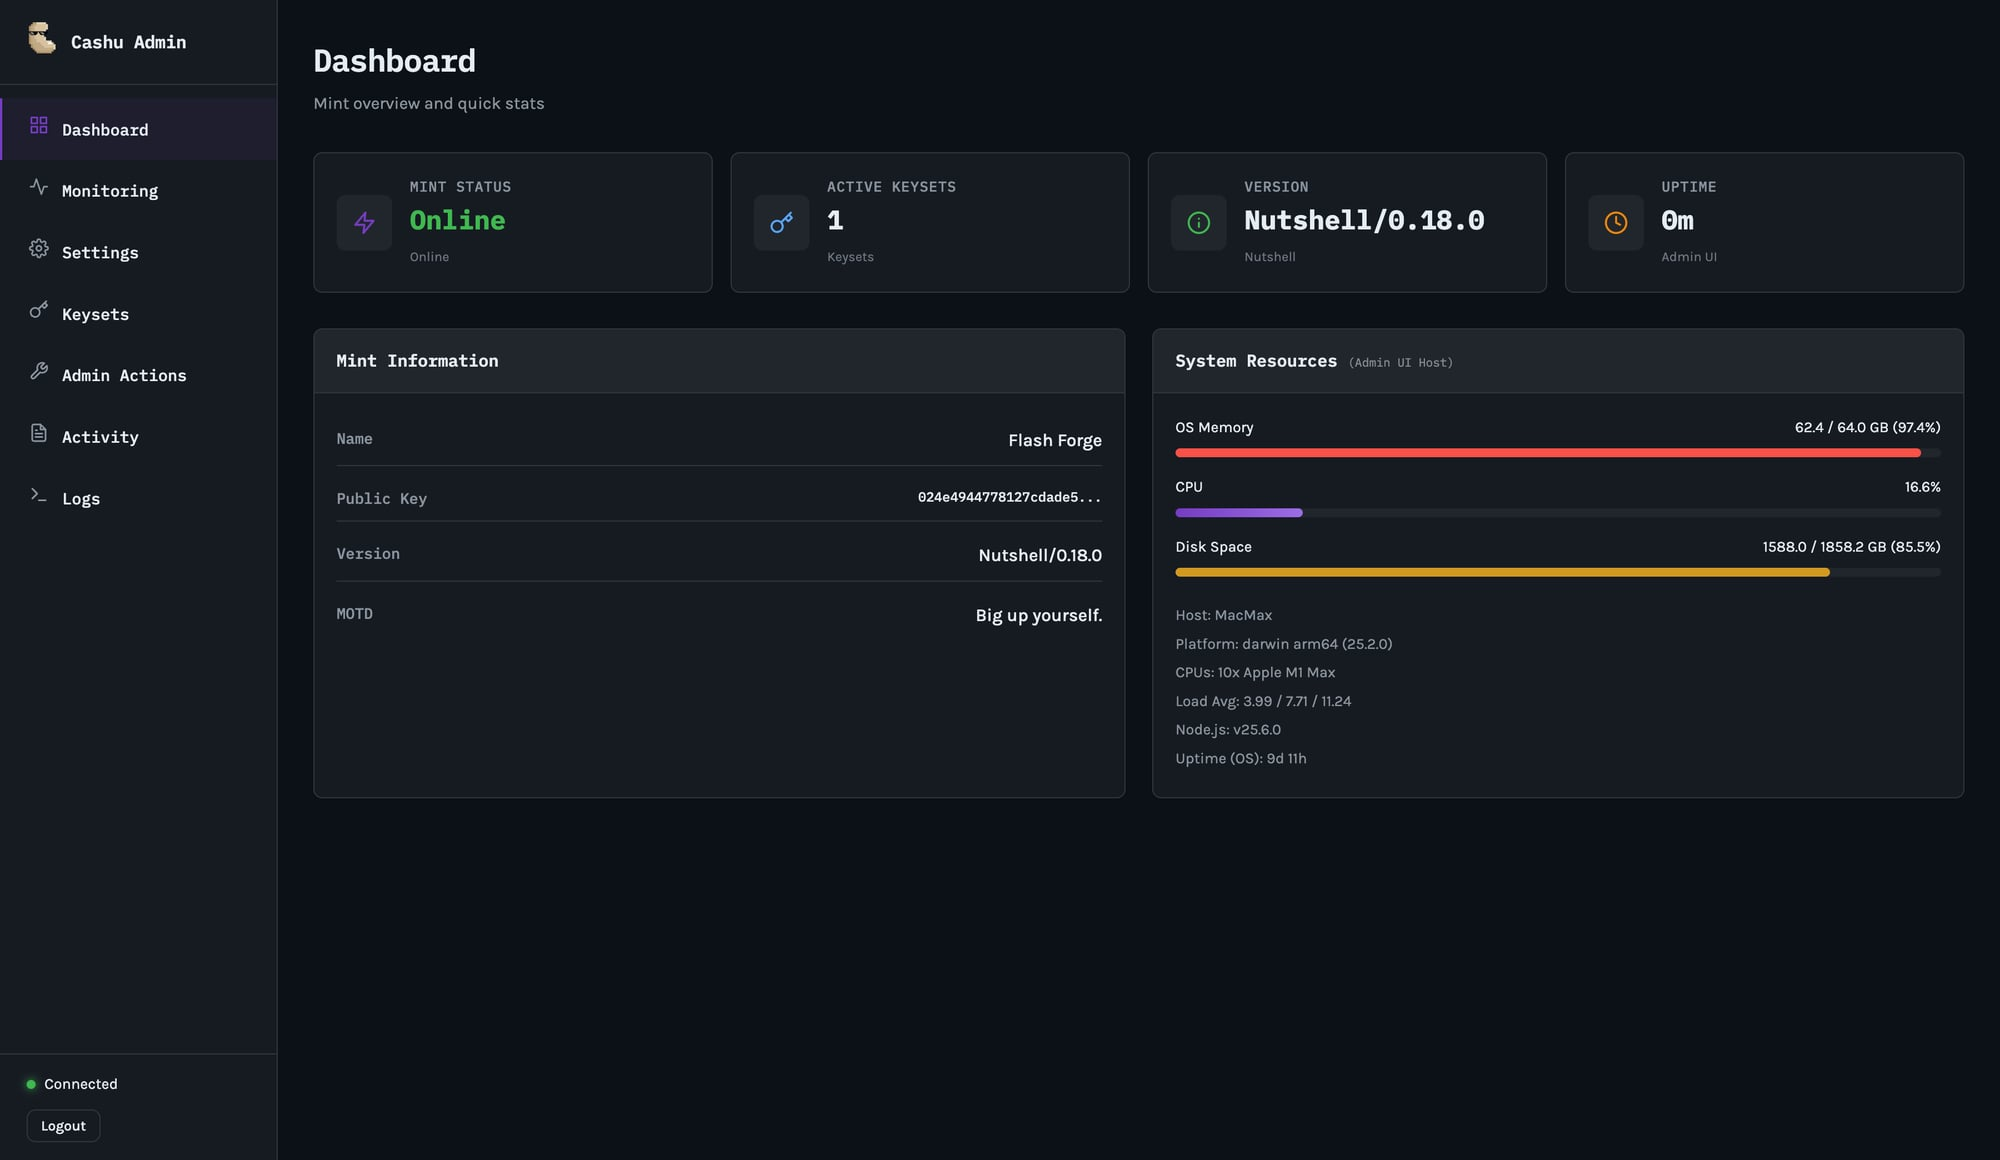
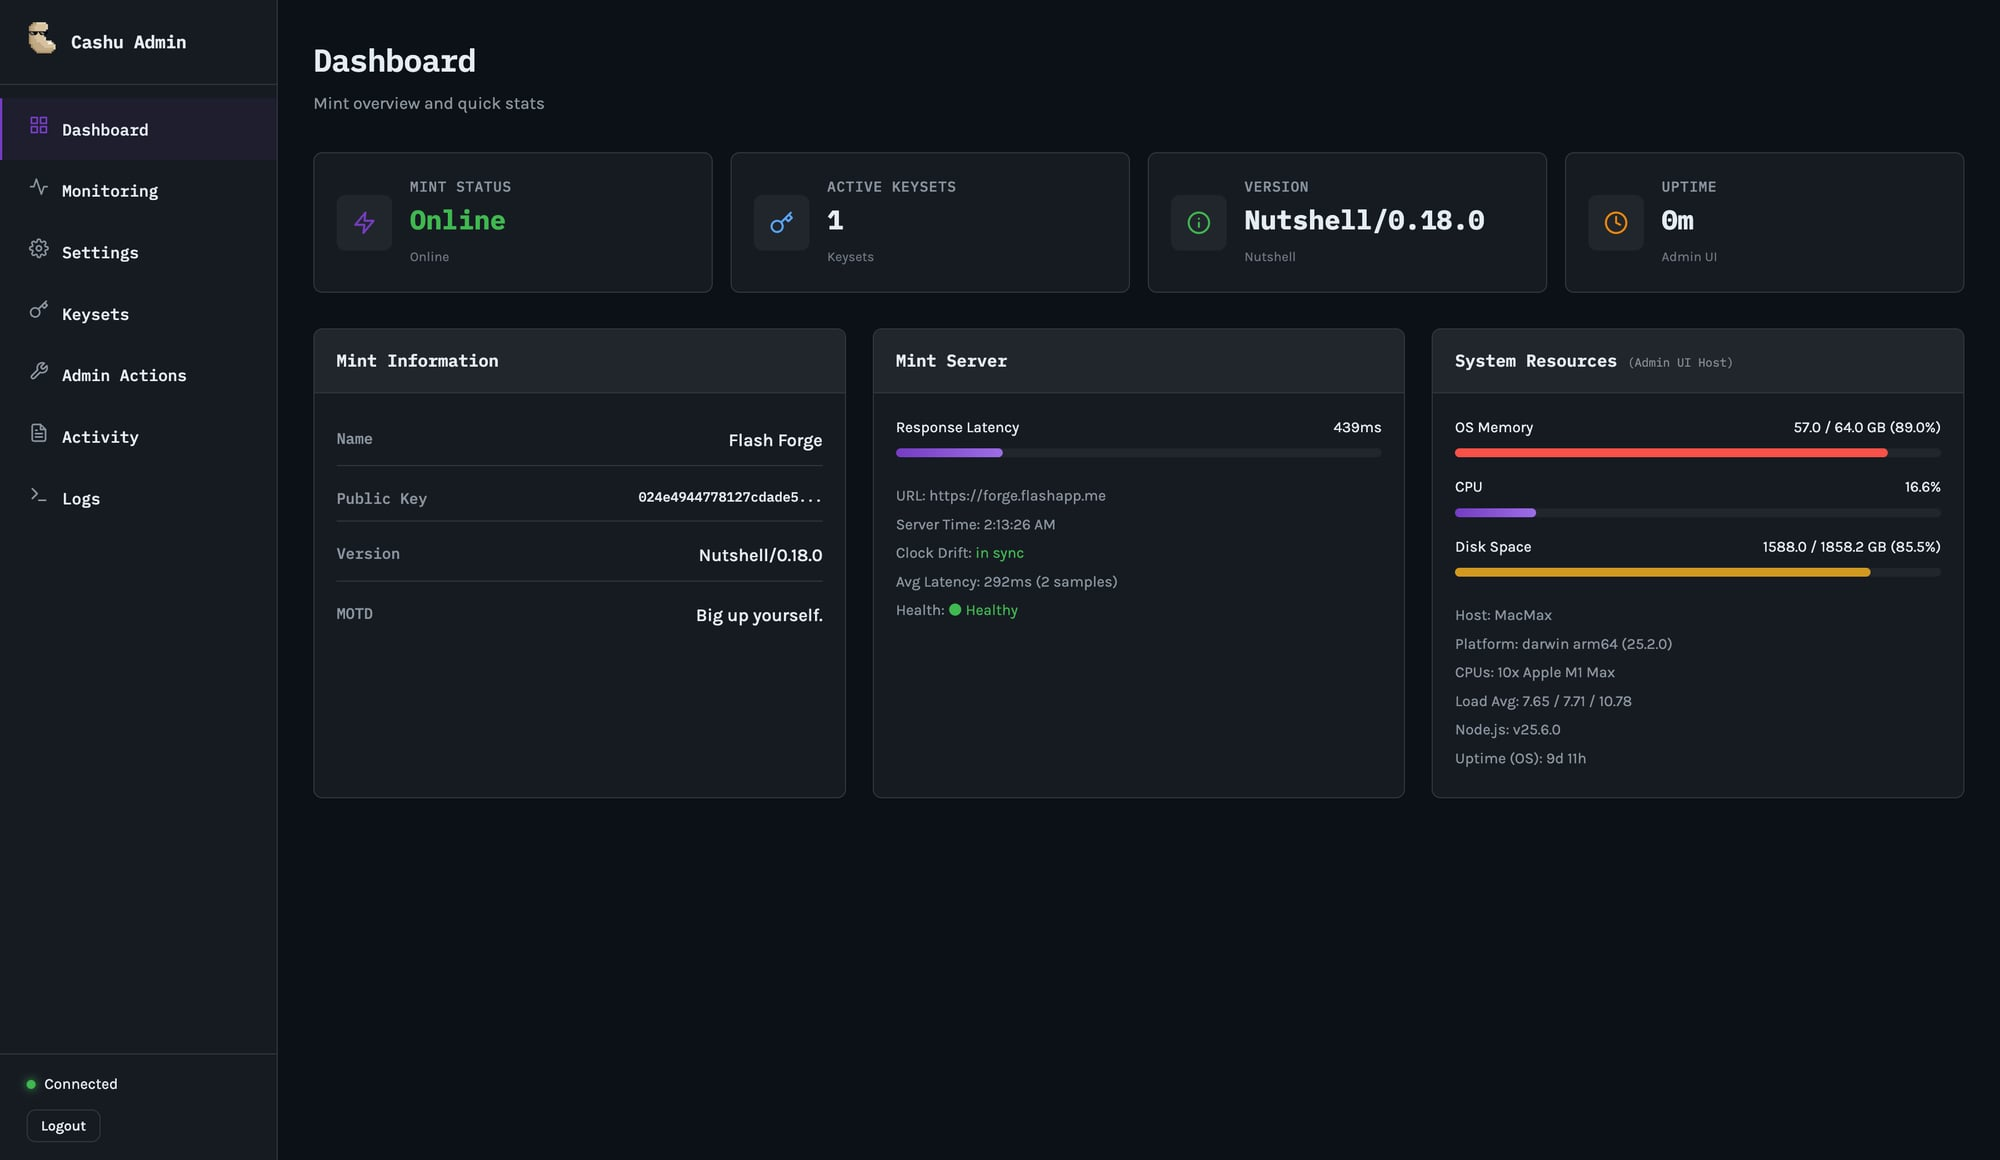
feat: add Mint Server health panel with latency + clock drift
- New GET /api/admin/mint/health endpoint: pings mint, measures
  response latency, extracts server time from /v1/info, calculates
  clock drift (important for NUT-14 HTLCs and quote expiry)
- Dashboard shows 3-column layout: Mint Info | Mint Server | System Resources
- Mint Server panel: response latency bar, URL, server time,
  clock drift indicator (green/yellow/red), rolling avg latency,
  health status (Healthy/Degraded/Unreachable)
- Polls every 10 seconds, maintains 30-sample rolling window
- Updated screenshot with Flash Forge connected

diff --git a/public/app.js b/public/app.js
@@ -221,6 +221,11 @@ class CashuAdmin {
       if (data.os) {
         this.updateOsStats(data.os);
       }
+
+      // Start mint health polling (every 10 seconds)
+      this.pollMintHealth();
+      if (this._mintHealthInterval) clearInterval(this._mintHealthInterval);
+      this._mintHealthInterval = setInterval(() => this.pollMintHealth(), 10000);
       
       // Load settings
       await this.loadSettings();
@@ -379,6 +384,81 @@ class CashuAdmin {
     }
   }
   
+  // ---------------------------------------------------------------------------
+  // Mint Server Health
+  // ---------------------------------------------------------------------------
+  // Pings the remote mint via GET /api/admin/mint/health and displays
+  // latency, server time, clock drift, and connection health.
+  // Maintains a rolling window of latency samples for averaging.
+
+  /** @type {number[]} Rolling window of latency measurements */
+  _latencySamples = [];
+
+  async pollMintHealth() {
+    try {
+      const health = await this.fetchWithAuth('/api/admin/mint/health');
+
+      // Latency bar (scale: 0-2000ms, anything over 2s = 100%)
+      const latencyEl = document.getElementById('mint-latency');
+      if (latencyEl) latencyEl.textContent = `${health.latencyMs}ms`;
+      const latencyBar = document.getElementById('mint-latency-bar');
+      if (latencyBar) {
+        const pct = Math.min((health.latencyMs / 2000) * 100, 100);
+        latencyBar.style.width = `${pct}%`;
+        latencyBar.style.background = health.latencyMs > 1000 ? '#f85149'
+          : health.latencyMs > 500 ? '#d29922'
+          : 'linear-gradient(90deg, var(--accent-primary), #9d6de6)';
+      }
+
+      // Mint URL
+      const urlEl = document.getElementById('mint-url-info');
+      if (urlEl) urlEl.textContent = health.mintUrl || '--';
+
+      // Server time
+      const timeEl = document.getElementById('mint-server-time');
+      if (timeEl && health.mintTimeISO) {
+        timeEl.textContent = new Date(health.mintTimeISO).toLocaleTimeString();
+      }
+
+      // Clock drift
+      const driftEl = document.getElementById('mint-clock-drift');
+      if (driftEl && health.clockDriftSec !== null) {
+        const absDrift = Math.abs(health.clockDriftSec);
+        const driftStr = absDrift < 2 ? 'in sync'
+          : `${health.clockDriftSec > 0 ? '+' : ''}${health.clockDriftSec}s`;
+        driftEl.textContent = driftStr;
+        driftEl.style.color = absDrift > 30 ? '#f85149' : absDrift > 5 ? '#d29922' : '#3fb950';
+      }
+
+      // Rolling average latency
+      this._latencySamples.push(health.latencyMs);
+      if (this._latencySamples.length > 30) this._latencySamples.shift();
+      const avgLatency = Math.round(
+        this._latencySamples.reduce((a, b) => a + b, 0) / this._latencySamples.length
+      );
+      const avgEl = document.getElementById('mint-avg-latency');
+      if (avgEl) avgEl.textContent = `${avgLatency}ms (${this._latencySamples.length} samples)`;
+
+      // Health status
+      const healthEl = document.getElementById('mint-health');
+      if (healthEl) {
+        if (health.reachable) {
+          healthEl.textContent = health.latencyMs < 500 ? '● Healthy' : '● Degraded';
+          healthEl.style.color = health.latencyMs < 500 ? '#3fb950' : '#d29922';
+        } else {
+          healthEl.textContent = '● Unreachable';
+          healthEl.style.color = '#f85149';
+        }
+      }
+    } catch (e) {
+      const healthEl = document.getElementById('mint-health');
+      if (healthEl) {
+        healthEl.textContent = '● Error';
+        healthEl.style.color = '#f85149';
+      }
+    }
+  }
+
   // ---------------------------------------------------------------------------
   // Monitoring
   // ---------------------------------------------------------------------------

diff --git a/server.js b/server.js
@@ -438,6 +438,54 @@ app.get('/api/admin/dashboard', requireAuth, async (req, res) => {
 });
 
 // =========================================================================
+// ADMIN API — MINT SERVER HEALTH
+// =========================================================================
+
+/**
+ * GET /api/admin/mint/health
+ * Ping the Nutshell mint and measure response latency, server time,
+ * and clock drift. This provides insight into the remote mint's
+ * availability and performance without requiring OS-level access.
+ *
+ * The mint's /v1/info endpoint returns a `time` field (unix timestamp)
+ * which we compare against local time to detect clock drift — important
+ * for HTLC timelock operations (NUT-14) and quote expiry.
+ */
+app.get('/api/admin/mint/health', requireAuth, async (req, res) => {
+  const start = Date.now();
+  try {
+    const response = await axios.get(`${CONFIG.mintUrl}/v1/info`, { timeout: 10000 });
+    const latencyMs = Date.now() - start;
+    const mintTime = response.data?.time;  // Unix timestamp from mint
+    const localTime = Math.floor(Date.now() / 1000);
+    const clockDriftSec = mintTime ? (localTime - mintTime) : null;
+
+    addLog('trace', 'proxy', `> Mint health check: ${latencyMs}ms, drift=${clockDriftSec}s`);
+
+    res.json({
+      reachable: true,
+      latencyMs,
+      mintUrl: CONFIG.mintUrl,
+      mintTime: mintTime || null,
+      mintTimeISO: mintTime ? new Date(mintTime * 1000).toISOString() : null,
+      localTime,
+      clockDriftSec,
+      version: response.data?.version || null,
+      name: response.data?.name || null
+    });
+  } catch (error) {
+    const latencyMs = Date.now() - start;
+    addLog('error', 'proxy', `Mint health check failed after ${latencyMs}ms: ${error.message}`);
+    res.json({
+      reachable: false,
+      latencyMs,
+      mintUrl: CONFIG.mintUrl,
+      error: error.message
+    });
+  }
+});
+
+// =========================================================================
 // ADMIN API — PROMETHEUS METRICS
 // =========================================================================
 

diff --git a/public/index.html b/public/index.html
@@ -179,6 +179,32 @@
 
           <div class="card">
             <div class="card-header">
+              <h2>Mint Server</h2>
+            </div>
+            <div class="card-body">
+              <div class="resource-bars">
+                <div class="resource-item">
+                  <div class="resource-header">
+                    <span>Response Latency</span>
+                    <span id="mint-latency">--</span>
+                  </div>
+                  <div class="progress-bar">
+                    <div class="progress-fill" id="mint-latency-bar" style="width: 0%"></div>
+                  </div>
+                </div>
+              </div>
+              <div class="system-info">
+                <p>URL: <span id="mint-url-info">--</span></p>
+                <p>Server Time: <span id="mint-server-time">--</span></p>
+                <p>Clock Drift: <span id="mint-clock-drift">--</span></p>
+                <p>Avg Latency: <span id="mint-avg-latency">--</span></p>
+                <p>Health: <span id="mint-health">--</span></p>
+              </div>
+            </div>
+          </div>
+
+          <div class="card">
+            <div class="card-header">
               <h2>System Resources <span style="font-size: 0.7em; font-weight: 400; opacity: 0.5;">(Admin UI Host)</span></h2>
             </div>
             <div class="card-body">
